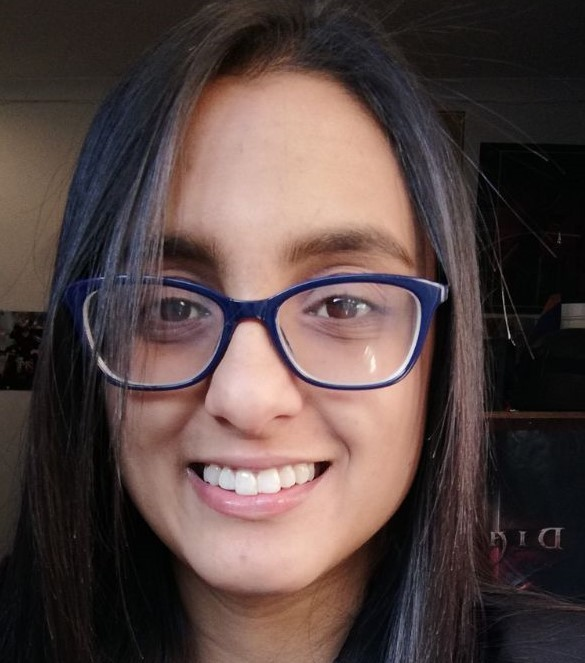
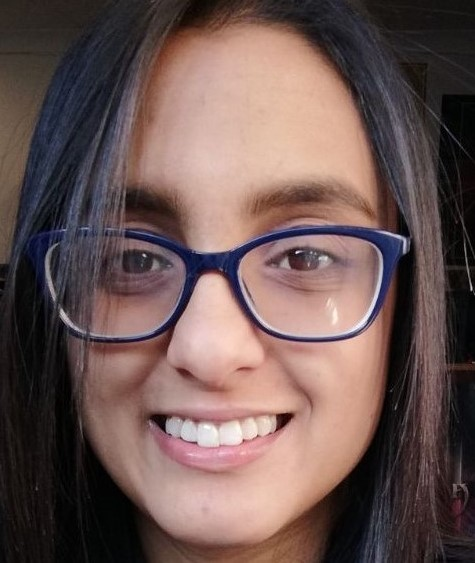
Addition of media query at min-width 500px

diff --git a/media.css b/media.css
@@ -1,0 +1,134 @@
+/* *************************************************************************************************************** */
+/* Media queries: */
+
+/* Mobile: */
+
+@media only screen and (min-width: 500px) {
+  /* Hero section */
+  img {
+    height: 11rem;
+    width: 10.8rem;
+    border-radius: 2rem;
+  }
+
+  .hero-content-container {
+    padding-left: 1.5rem;
+    padding-right: 1.5rem;
+  }
+
+  .intro-content h1 {
+    margin-top: 0.5rem;
+    margin-bottom: 0.3rem;
+    font-size: 1.8rem;
+  }
+
+  .my-name {
+    margin-bottom: 0.2rem;
+  }
+
+  .career-title {
+    font-size: 0.95rem;
+  }
+
+  .intro-paragraph {
+    font-size: 1.2rem;
+    margin-top: 3rem;
+    margin-bottom: 8rem;
+  }
+
+  .navigation {
+    gap: 2.5rem;
+  }
+
+  .btn {
+    padding: 1rem 1rem;
+  }
+
+  .navigation a,
+  .navigation a:link,
+  .navigation a:visited {
+    font-size: 0.8rem;
+  }
+
+  /* ****************************************************************************** */
+  /* Main content section: */
+
+  .main-content-container {
+    /* Space between sections */
+    margin-top: 5rem;
+  }
+
+  .main-heading {
+    font-size: 1.4rem;
+  }
+
+  .main-content {
+    gap: 6rem;
+  }
+
+  .section-container {
+    padding: 3rem 2.5rem;
+  }
+
+  .heading-container {
+    margin-bottom: 2.8rem;
+  }
+
+  .section-heading {
+    font-size: 1.2rem;
+    margin-bottom: 1.2rem;
+  }
+
+  .section-list {
+    font-size: 1.1rem;
+  }
+
+  li {
+    margin-bottom: 1rem;
+  }
+
+  /* ****************************************************************************** */
+  /* Get in touch section: */
+  .get-in-touch {
+    margin-top: 5rem;
+  }
+
+  .contact-form-container {
+    margin-bottom: 5rem;
+  }
+
+  .form {
+    /* Background: */
+    background-color: #f7d7cc42;
+    border: 1px solid #360a2b;
+    border-radius: 5px;
+    padding: 2rem 4rem;
+  }
+
+  label {
+    font-size: 1.05rem;
+    font-weight: bold;
+
+    margin-bottom: 0.5rem;
+  }
+
+  input,
+  select,
+  option {
+    margin-bottom: 2.2rem;
+    padding: 0.4rem 0.2rem;
+  }
+
+  textarea {
+    padding: 0.4rem 0.2rem;
+    margin-bottom: 5rem;
+  }
+
+  .submit-btn {
+    padding: 1rem 1rem;
+    font-size: 1.2rem;
+    font-weight: bold;
+  }
+
+  /* Contact details: */
+}

diff --git a/style.css b/style.css
@@ -45,8 +45,8 @@ footer {
 
 img {
   /* For size and appearance of image: */
-  height: 9.8rem;
-  width: 10rem;
+  height: 10rem;
+  width: 9.8rem;
   border-radius: 2rem;
   box-shadow: -0.2rem 1.8rem 3.4rem rgba(0, 0, 0, 0.15);
   filter: brightness(110%);
@@ -87,7 +87,7 @@ img:hover {
 }
 
 .career-title {
-  font-size: 0.8rem;
+  font-size: 0.85rem;
   font-weight: bold;
   color: #360a2b;
 }
@@ -127,7 +127,7 @@ img:hover {
 .navigation a:link,
 .navigation a:visited {
   font-family: sans-serif;
-  font-size: 0.75rem;
+  font-size: 0.7rem;
   font-weight: bold;
   text-decoration: none;
   color: #faf9f6;
@@ -168,7 +168,7 @@ img:hover {
   background-color: #360a2b8b;
   border-radius: 5px;
   box-shadow: -0.2rem 1.8rem 3.4rem rgba(0, 0, 0, 0.15);
-  padding: 2rem 2rem;
+  padding: 3rem 2rem;
 }
 
 .heading-container {
@@ -196,18 +196,14 @@ li {
   margin-bottom: 0.8rem;
 }
 
-/* footer {
-  background-color: #360a2b;
-} */
-
 /* *************************************************************************************************************** */
 .get-in-touch {
   margin-top: 6rem;
+  margin-bottom: 6rem;
 }
 
 .contact-section-container {
-  margin-top: 3rem;
-  margin-bottom: 6rem;
+  margin-bottom: 5rem;
 }
 
 .contact-form-container {
@@ -219,13 +215,12 @@ li {
   flex-direction: column;
   position: center;
   text-align: center;
-  margin-bottom: 2rem;
 
   /* Background: */
   background-color: #f7d7cc42;
   border: 1px solid #360a2b;
   border-radius: 5px;
-  padding: 1.5rem 1.5rem;
+  padding: 1.8rem 2rem;
 }
 
 label {
@@ -247,12 +242,13 @@ textarea {
 }
 
 textarea {
-  margin-bottom: 2rem;
+  margin-bottom: 2.5rem;
 }
 
 .submit-btn {
   padding: 1rem 1rem;
   font-size: 0.9rem;
+  font-weight: bold;
   color: #faf9f6;
   background-color: #360a2ba6;
   border: 1px solid #360a2b;
@@ -325,11 +321,4 @@ input:focus:invalid {
 
 .contact-detail-email p {
   font-size: 0.88rem;
-}
-
-/* *************************************************************************************************************** */
-/* Media queries: */
-
-/* Mobile: */
-@media only screen and (max-width: 600px) {
 }

diff --git a/index.html b/index.html
@@ -5,6 +5,7 @@
     <meta http-equiv="X-UA-Compatible" content="IE=edge" />
     <meta name="viewport" content="width=device-width, initial-scale=1.0" />
     <link rel="stylesheet" href="./style.css" />
+    <link rel="stylesheet" href="./media.css" />
     <!-- Add favicon -->
     <title>Digital Resume- Gabrielle Naidoo</title>
   </head>
@@ -14,8 +15,12 @@
         <div class="hero-image-container">
           <picture>
             <source
-              media="(max-width:900px)"
+              media="(max-width:600px)"
               srcset="/images/profile-image-me-small.jpeg"
+            />
+            <source
+              media="(max-width:900px)"
+              srcset="/images/profile-image-me-medium.jpeg"
             />
             <img
               src="/images/profile-image-me-large.jpeg"
@@ -150,7 +155,7 @@
                 </option>
                 <option value="other">Other</option>
               </select>
-              <label for="additional-information"
+              <label for="additional-information" class="last"
                 >Additional Information:</label
               >
               <textarea
